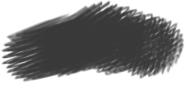
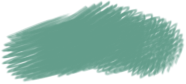
buttons are changed

diff --git a/src/pages/home/index.js b/src/pages/home/index.js
@@ -1,4 +1,4 @@
-import React , { useRef } from 'react'
+import React, { useRef } from 'react'
 import './index.css'
 import Slider from "react-slick";
 import heroImg1 from "../../assets/images/heroImg.png";
@@ -43,17 +43,17 @@ const dataArr = [
 ]
 
 const Home = () => {
-     // Create a reference for the target section
-        const targetSectionRef = useRef(null);
-    
-        // Scroll to the target section smoothly
-        const handleScroll = () => {
-            gsap.to(window, {
-                duration: 2, // Duration of the animation in seconds
-                scrollTo: { y: targetSectionRef.current, offsetY: 60 },
-                ease: 'power2.inOut', // Easing function for smooth animation
-            });
-        };
+    // Create a reference for the target section
+    const targetSectionRef = useRef(null);
+
+    // Scroll to the target section smoothly
+    const handleScroll = () => {
+        gsap.to(window, {
+            duration: 2, // Duration of the animation in seconds
+            scrollTo: { y: targetSectionRef.current, offsetY: 60 },
+            ease: 'power2.inOut', // Easing function for smooth animation
+        });
+    };
 
     var settings = {
         dots: false,
@@ -64,53 +64,50 @@ const Home = () => {
     };
     return (
         <>
-        <section className='heroWrap'>
-            <div className="container xl:flex xl:flex-col">
-                <div className="min-[1680px]:max-w-[530px] min-[1370px]:max-w-[350px] md:max-w-[280px] max-w-[220px] w-full mx-auto xl:-mt-[50px]">
-                    <img src={heroImg1} alt="" className='w-full' />
-                </div>
-                <div className="heroInner">
-                    <ul className='flex flex-col min-[1680px]:gap-6 gap-3 xl:pt-[65px] md:pt-[40px] pt-4'>
-                        <li className='sf text-[#393939] text-center min-[1680px]:text-[24px] md:text-[18px] text-[16px]'>
-                            Parker and her grandfather need more
-                            Brilliant Ideas, to help them on their
-                            jouney in making the world a better place.
-                        </li>
-                        <li className='sf text-[#393939] text-center min-[1680px]:text-[24px] md:text-[18px] text-[16px]'>
-                            Submit your Brilliant Ideas, and your idea may
-                            make the next book, and in doing so, making
-                            the world a better place..
-                        </li>
-                        <li className='sf text-[#393939] text-center min-[1680px]:text-[24px] md:text-[18px] text-[16px]'>
-                            Don’t give any of your ideas to the nasty Mayor :(
-                        </li>
-                    </ul>
-                    <Slider {...settings}>
-                        {
-                            dataArr.map((data,index) => (
-                                <div key={index}>
-                                    <img src={data.slide} alt="" className='slideImg' />
-                                </div>
-                            ))
-                        }
-                    </Slider>
-                    <ul className='flex flex-col gap-6 xl:pt-[100px] md:pt-[40px] pt-4'>
-                        <li className='sf text-[#393939] text-center min-[1680px]:text-[24px] md:text-[18px] text-[16px]'>
-                            The young inventors show invites you to be in
-                            the audience, If we call your seat, remember to have
-                            that idea ready..
-                        </li>
-                    </ul>
-                </div>
-                <Link onClick={handleScroll} className='flex xl:absolute max-[1200px]:w-fit max-[1200px]:mx-auto bottom-[30px] right-0 justify-center items-center text-white min-[1680px]:text-[36px] min-[1370px]:text-[26px] text-[20px] uppercase min-[1680px]:py-[21px] py-[18px] min-[1680px]:px-[86px] px-[65px] bg-contain bg-no-repeat leading-none bg-center text-nowrap text-center font-normal' style={{ backgroundImage: `url(${img1})`, backgroundSize: '100% 100%' }}>
-                Submit <br/>
-                your idea
+            <section className='heroWrap'>
+                <div className="container xl:flex xl:flex-col">
+                    <div className="min-[1680px]:max-w-[530px] min-[1370px]:max-w-[350px] md:max-w-[280px] max-w-[220px] w-full mx-auto xl:-mt-[50px]">
+                        <img src={heroImg1} alt="" className='w-full' />
+                    </div>
+                    <div className="heroInner">
+                        <ul className='flex flex-col min-[1680px]:gap-6 gap-3 xl:pt-[65px] md:pt-[40px] pt-4'>
+                            <li className='sf text-[#393939] text-center min-[1680px]:text-[24px] md:text-[18px] text-[16px]'>
+                                Parker and her grandfather need more
+                                Brilliant Ideas, to help them make the
+                                world a better place.
+                            </li>
+                            <li className='sf text-[#393939] text-center min-[1680px]:text-[24px] md:text-[18px] text-[16px]'>
+                                Submit your Brilliant Ideas, and your idea may
+                                make the next book, and in doing so, making
+                                the world even more amazing.
+                            </li>
+                        </ul>
+                        <Slider {...settings}>
+                            {
+                                dataArr.map((data, index) => (
+                                    <div key={index}>
+                                        <img src={data.slide} alt="" className='slideImg' />
+                                    </div>
+                                ))
+                            }
+                        </Slider>
+                        <ul className='flex flex-col gap-6 xl:pt-[100px] md:pt-[40px] pt-4'>
+                            <li className='sf text-[#393939] text-center min-[1680px]:text-[24px] md:text-[18px] text-[16px]'>
+                            The young inventors show invites you to be in 
+the audience, If we call your seat number, 
+remember to have your ideas ready.. 
+                            </li>
+                        </ul>
+                    </div>
+                    <Link onClick={handleScroll} className='flex xl:absolute max-[1200px]:w-fit max-[1200px]:mx-auto bottom-[30px] right-0 justify-center items-center text-white min-[1680px]:text-[36px] min-[1370px]:text-[26px] text-[20px] uppercase min-[1680px]:py-[21px] py-[18px] min-[1680px]:px-[86px] px-[65px] bg-contain bg-no-repeat leading-none bg-center text-nowrap text-center font-normal' style={{ backgroundImage: `url(${img1})`, backgroundSize: '100% 100%' }}>
+                        Submit <br />
+                        your idea
                     </Link>
-            </div>
-        </section >
+                </div>
+            </section >
             <ContactForm targetSectionRef={targetSectionRef} />
         </>
-        
+
     )
 }
 

diff --git a/src/components/contactForm/index.js b/src/components/contactForm/index.js
@@ -97,7 +97,7 @@ const ContactForm = ({ targetSectionRef }) => {
                         </div>
                     </div>
 
-                    <button style={{ gridArea: "g" }} type="submit" className='bg-secondary-color min-[1680px]:h-[80px] min-[1370px]:h-[65px] h-[50px] text-primary-color rounded-[8px] mt-3 min-[1680px]:text-3xl min-[1370px]:text-2xl text-xl border-2 border-transparent hover:bg-black hover:border-black hover:text-white'>Submit</button>
+                    <button style={{ gridArea: "g" }} type="submit" className='bg-[#649d8c] min-[1680px]:h-[80px] min-[1370px]:h-[65px] h-[50px] text-primary-color rounded-[8px] mt-3 min-[1680px]:text-3xl min-[1370px]:text-2xl text-xl border-2 border-transparent hover:bg-black hover:border-black hover:text-white'>Submit</button>
                 </form>
             </div>
 
